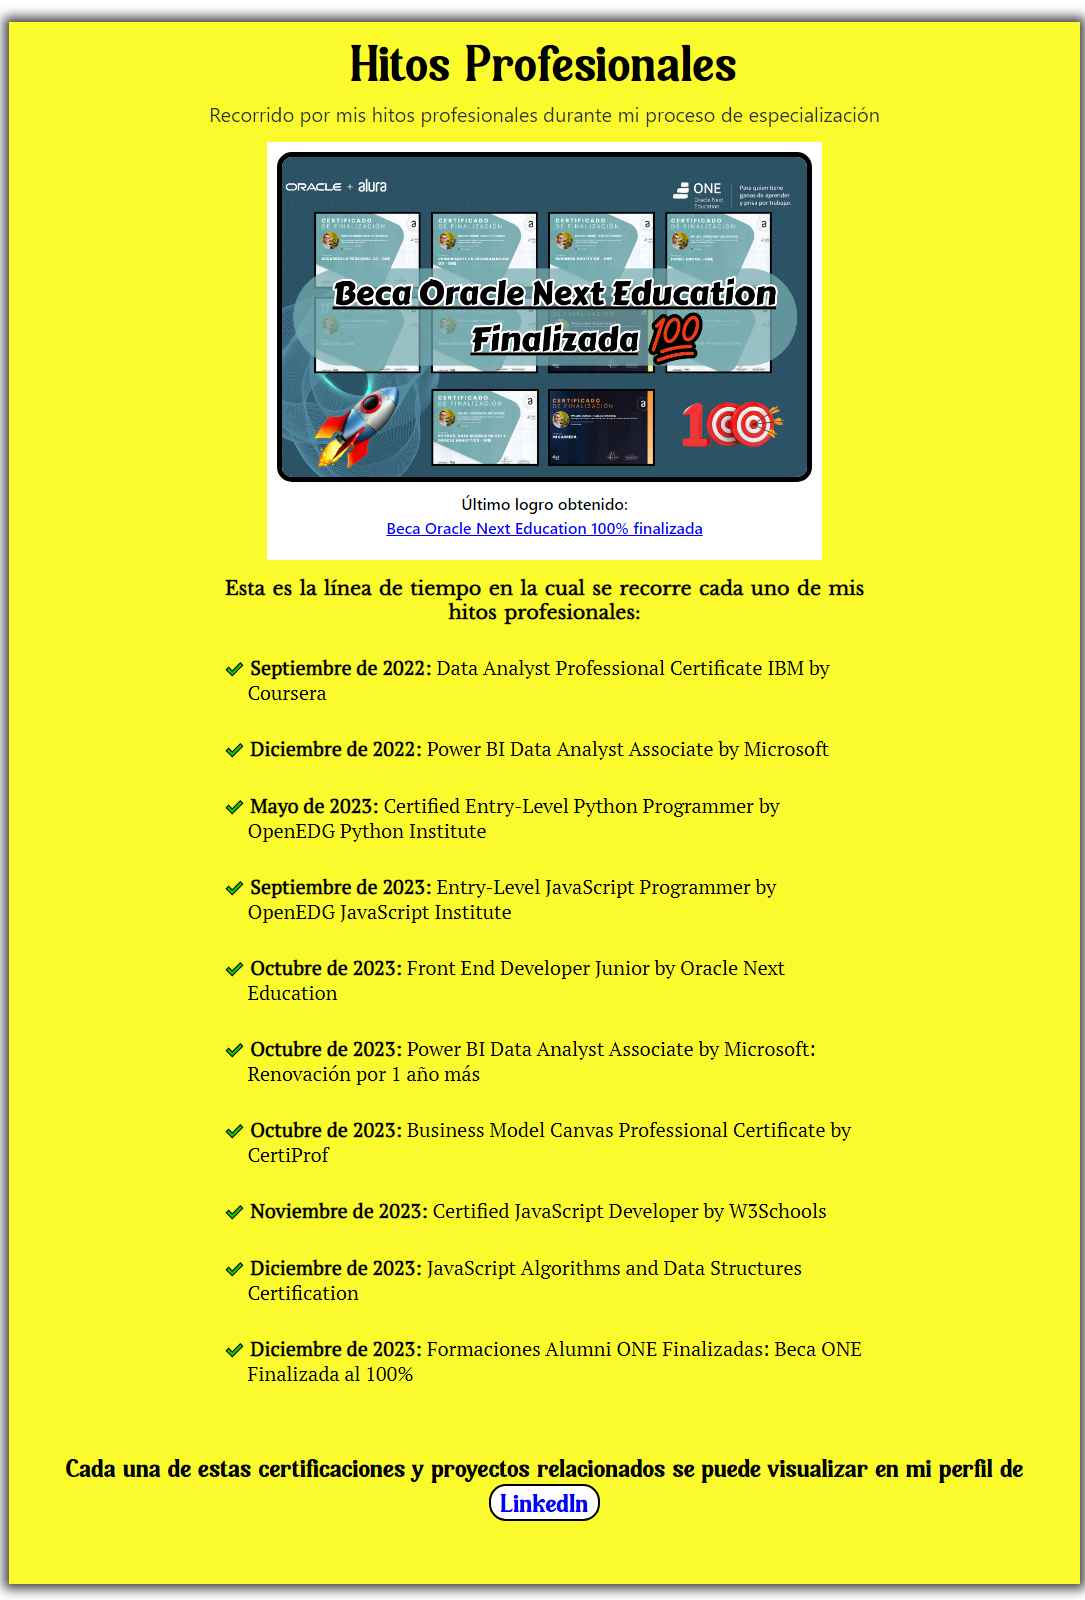
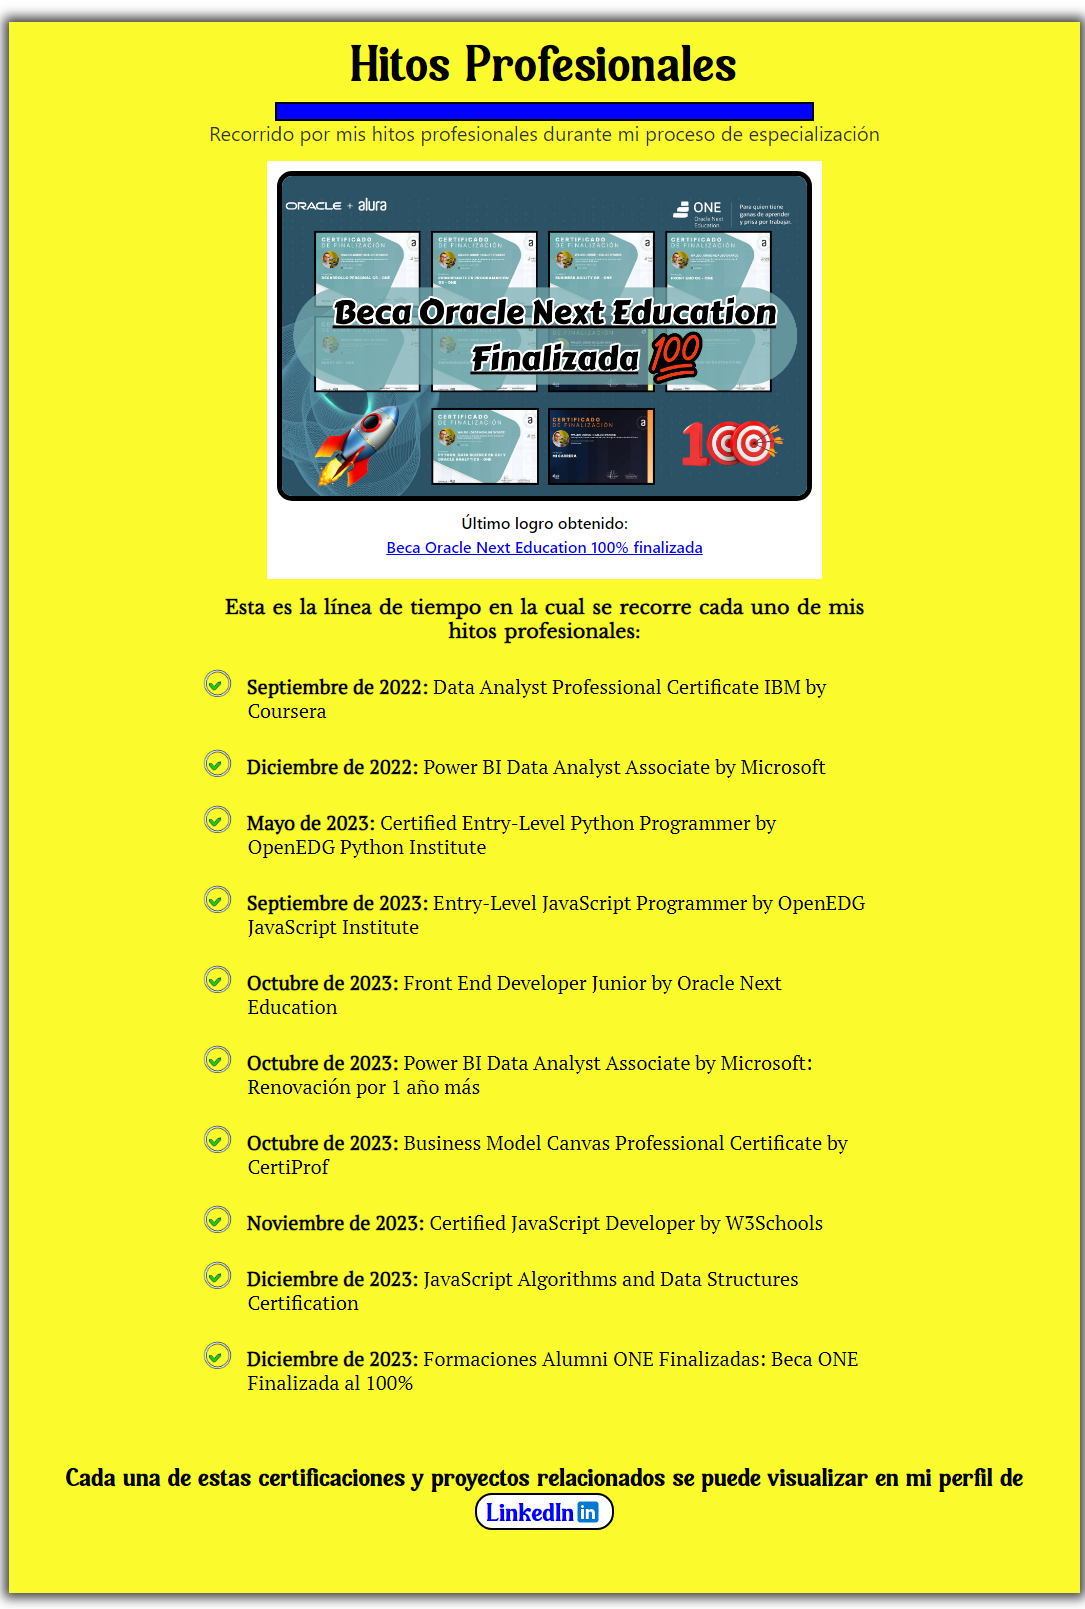
se agrega gif, icono y divisor

diff --git a/styles.css b/styles.css
@@ -13,6 +13,13 @@ html {
   padding-bottom: 1rem;
   box-shadow: 0px 0px 11px 5px rgba(0, 0, 0, 0.75);
 }
+.divisor {
+  height: 15px;
+  background-color: blue;
+  margin: auto;
+  width: 50%;
+  border: 2px solid black;
+}
 #title {
   font-family: alanta, "Segoe UI", sans-serif;
   font-size: 2rem;
@@ -90,7 +97,7 @@ html {
     li {
       padding-bottom: 1rem;
       padding-top: 1rem;
-      text-indent: -1.5rem;
+      text-indent: -2.4rem;
       margin-left: 1.5rem;
       font-size: 1.25rem;
       font-family: "PT Serif", serif;
@@ -102,9 +109,15 @@ html {
     }
 
     li::before {
-      content: "✔";
-      margin-right: 0rem;
-      font-size: 1rem;
+      content: "";
+      background-image: url(https://media.giphy.com/media/MelhioWPAo6k4Q6BTp/giphy.gif);
+      background-size: contain;
+      margin-top: -15px;
+      margin-bottom: -15px;
+      margin-left: -15px;
+      width: 48px;
+      display: inline-block;
+      height: 48px;
     }
   }
 }
@@ -114,8 +127,7 @@ html {
     font-family: alanta, "Segoe UI", sans-serif;
     font-size: 1.5rem;
     text-align: center;
-    padding-top: 3rem;
-    padding-bottom: 3rem;
+    padding: 3rem;
     line-height: 2.2rem;
     a {
       color: blue;
@@ -123,6 +135,11 @@ html {
       outline: 2px solid black;
       border-radius: 15px;
       padding: 0 10px;
+
+      img {
+        height: 1.75rem;
+        margin-bottom: -5px;
+      }
     }
     a:hover {
       color: white;

diff --git a/index.html b/index.html
@@ -24,6 +24,7 @@
   <body>
     <main id="main">
       <h1 id="title">Hitos Profesionales</h1>
+      <div class="divisor"></div>
       <p id="tribute-info">
         Recorrido por mis hitos profesionales durante mi proceso de
         especialización
@@ -101,8 +102,10 @@
             href="https://www.linkedin.com/in/waldo-hidalgo-oyarce/"
             target="_blank"
             title="Ir al perfil de LinkedIn"
-            >LinkedIn</a
-          >
+            >LinkedIn<img
+              src="https://img.icons8.com/fluency/48/linkedin.png"
+              alt="linkedin"
+          /></a>
         </p>
       </section>
     </main>
